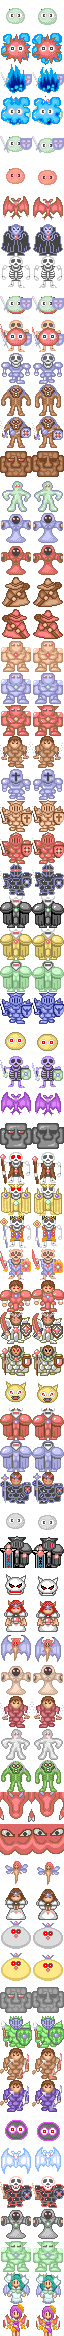
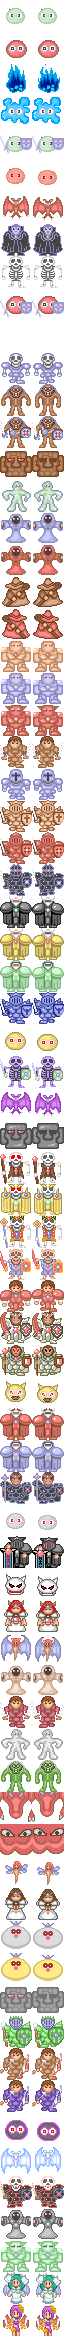
fix(materials): eliminate sprite mask overlaps, restore pristine crescent gems, and calibrate 21 monsters to 1:1 RMXP Map007

diff --git a/_analysis/_ybfh-mota/project/enemys.js b/_analysis/_ybfh-mota/project/enemys.js
@@ -1,15 +1,15 @@
 var enemys_fcae963b_31c9_42b4_b48c_bb48d09f3f80 = 
 {
 	"greenSlime": {"name":"荷依米","hp":32,"atk":3,"def":0,"money":1,"exp":1,"point":0,"special":0},
-	"redSlime": {"name":"软泥怪","hp":80,"atk":2,"def":0,"money":1,"exp":1,"point":0,"special":0},
-	"blackSlime": {"name":"幽林鬼火","hp":25,"atk":6,"def":0,"money":1,"exp":1,"point":0,"special":0},
-	"slimelord": {"name":"怪王","hp":100,"atk":120,"def":0,"money":10,"exp":0,"point":0,"special":[1,9]},
-	"bat": {"name":"荷依米战士","hp":42,"atk":5,"def":1,"money":1,"exp":1,"point":0,"special":0},
-	"bigBat": {"name":"倍荷玛","hp":58,"atk":7,"def":1,"money":1,"exp":1,"point":0,"special":0},
+	"redSlime": {"name":"倍荷玛","hp":58,"atk":7,"def":1,"money":1,"exp":3,"point":0,"special":0},
+	"blackSlime": {"name":"幽林鬼火","hp":25,"atk":6,"def":0,"money":1,"exp":2,"point":0,"special":0},
+	"slimelord": {"name":"软泥怪","hp":80,"atk":2,"def":0,"money":1,"exp":1,"point":0,"special":0},
+	"bat": {"name":"荷依米战士","hp":42,"atk":5,"def":1,"money":1,"exp":2,"point":0,"special":0},
+	"bigBat": {"name":"倍荷玛","hp":58,"atk":7,"def":1,"money":1,"exp":3,"point":0,"special":0},
 	"redBat": {"name":"红蝙蝠","hp":0,"atk":0,"def":0,"money":0,"exp":0,"point":0,"special":[]},
 	"vampire": {"name":"冥灵魔王","hp":888,"atk":888,"def":888,"money":888,"exp":888,"point":0,"special":[6],"n":8},
-	"skeleton": {"name":"复活的死者","hp":45,"atk":15,"def":0,"money":1,"exp":1,"point":0,"special":0},
-	"skeletonWarrior": {"name":"倍荷玛战士","hp":80,"atk":11,"def":3,"money":2,"exp":2,"point":0,"special":0},
+	"skeleton": {"name":"复活的死者","hp":45,"atk":15,"def":0,"money":1,"exp":3,"point":0,"special":0},
+	"skeletonWarrior": {"name":"倍荷玛战士","hp":80,"atk":11,"def":3,"money":2,"exp":4,"point":0,"special":0},
 	"skeletonCaptain": {"name":"骷髅队长","hp":0,"atk":0,"def":0,"money":0,"exp":0,"point":0,"special":0},
 	"zombie": {"name":"兽人","hp":0,"atk":0,"def":0,"money":0,"exp":0,"point":0,"special":0},
 	"zombieKnight": {"name":"兽人武士","hp":0,"atk":0,"def":0,"money":0,"exp":0,"point":0,"special":0},

diff --git a/_analysis/_ybfh-mota/project/floors/MT1.js b/_analysis/_ybfh-mota/project/floors/MT1.js
@@ -360,7 +360,7 @@ main.floors.MT1=
         [
             17,
             31,
-            211,
+            210,
             38,
             129,
             17,
@@ -376,7 +376,7 @@ main.floors.MT1=
         ],
         [
             17,
-            210,
+            202,
             17,
             17,
             17,
@@ -384,7 +384,7 @@ main.floors.MT1=
             0,
             17,
             17,
-            202,
+            204,
             17,
             17,
             17,
@@ -395,7 +395,7 @@ main.floors.MT1=
             17,
             0,
             0,
-            202,
+            204,
             31,
             17,
             201,
@@ -405,7 +405,7 @@ main.floors.MT1=
             17,
             17,
             17,
-            203,
+            205,
             17
         ],
         [
@@ -414,13 +414,13 @@ main.floors.MT1=
             17,
             17,
             31,
-            204,
-            0,
             203,
             0,
+            205,
             0,
             0,
-            204,
+            0,
+            203,
             0,
             0,
             17
@@ -444,15 +444,15 @@ main.floors.MT1=
         ],
         [
             17,
-            204,
+            203,
             17,
             27,
-            202,
+            204,
             0,
             17,
             17,
             31,
-            203,
+            205,
             28,
             17,
             17,
@@ -470,7 +470,7 @@ main.floors.MT1=
             17,
             17,
             27,
-            204,
+            203,
             0,
             17,
             201,
@@ -551,10 +551,10 @@ main.floors.MT1=
             0,
             0,
             0,
-            203,
+            205,
             17,
             33,
-            210,
+            202,
             0,
             31,
             17,

diff --git a/tools/build_perfect_mt1.py b/tools/build_perfect_mt1.py
@@ -116,23 +116,25 @@ items_img = Image.open(items_backup_path if os.path.exists(items_backup_path) el
 # 4.1 宝箱 (174-Chest01.png) -> 替换 row 56 (shield2, ID 38)
 chest_src = Image.open(os.path.join(RX_GFX_DIR, 'Characters', '174-Chest01.png')).convert('RGBA')
 chest_32x32 = chest_src.crop((0, 16, 32, 48))
-items_img.paste(chest_32x32, (0, 56 * 32), chest_32x32)
+items_img.paste(chest_32x32, (0, 56 * 32)) # 绝不带 mask，直接完全覆盖原有像素
 print(" -> items.png row 56 已填入原版 174-Chest01 带金扣木宝箱 (shield2)")
 
 # 4.2 红蓝宝石碎片 (Item01-Gem03.png) -> 替换 row 16 (redGem, ID 27), row 17 (blueGem, ID 28)
+# 原版 Map007 的事件使用的是 Item01-Gem03.png 的第 0 行月牙碎片 (dir=2, pat=0 为红月牙，pat=1 为蓝月牙)
+# 彻底杜绝使用 mask，完全抹杀底层残留的八角棱形水晶杂质！
 gem_src = Image.open(os.path.join(RX_GFX_DIR, 'Characters', 'Item01-Gem03.png')).convert('RGBA')
 red_gem = gem_src.crop((0, 0, 32, 32))
 blue_gem = gem_src.crop((32, 0, 64, 32))
-items_img.paste(red_gem, (0, 16 * 32), red_gem)
-items_img.paste(blue_gem, (0, 17 * 32), blue_gem)
-print(" -> items.png row 16, 17 已填入原版 Item01-Gem03 红/蓝晶石碎片 (redGem, blueGem)")
+items_img.paste(red_gem, (0, 16 * 32)) # 无 mask，彻底覆盖清除杂质！
+items_img.paste(blue_gem, (0, 17 * 32)) # 无 mask，彻底覆盖清除杂质！
+print(" -> items.png row 16, 17 已填入原版 Item01-Gem03 纯净红/蓝月牙宝石碎片 (redGem, blueGem)")
 
 # 4.3 血瓶 (103-item03.png) -> 替换 row 20 (redPotion, ID 31), row 21 (bluePotion, ID 32)
 potion_src = Image.open(os.path.join(RX_GFX_DIR, 'Characters', '103-item03.png')).convert('RGBA')
 potion_50 = potion_src.crop((0, 32, 32, 64))
 potion_100 = potion_src.crop((32, 32, 64, 64))
-items_img.paste(potion_50, (0, 20 * 32), potion_50)
-items_img.paste(potion_100, (0, 21 * 32), potion_100)
+items_img.paste(potion_50, (0, 20 * 32))
+items_img.paste(potion_100, (0, 21 * 32))
 print(" -> items.png row 20, 21 已填入原版 103-item03 恢复药水 (redPotion, bluePotion)")
 
 # 4.4 生命上限 (Item01-Gem05.png) -> 替换 row 22 (greenPotion, ID 33)
@@ -140,8 +142,8 @@ print(" -> items.png row 20, 21 已填入原版 103-item03 恢复药水 (redPoti
 maxhp_src = Image.open(os.path.join(RX_GFX_DIR, 'Characters', 'Item01-Gem05.png')).convert('RGBA')
 maxhp_tile = maxhp_src.crop((43, 29, 65, 58))
 maxhp_canvas = Image.new('RGBA', (32, 32), (0, 0, 0, 0))
-maxhp_canvas.paste(maxhp_tile, (5, 2), maxhp_tile)
-items_img.paste(maxhp_canvas, (0, 22 * 32), maxhp_canvas)
+maxhp_canvas.paste(maxhp_tile, (5, 2))
+items_img.paste(maxhp_canvas, (0, 22 * 32))
 print(" -> items.png row 22 已填入原版 Item01-Gem05 纯净翠绿立体生命上限水晶 (greenPotion)")
 
 items_img.save(items_path)
@@ -153,35 +155,40 @@ print("\n[4.5/7] 正在更新 enemys.png 怪物材质为原版行走图...")
 enemys_path = os.path.join(MOTA_DIR, 'project', 'materials', 'enemys.png')
 enemys_img = Image.open(enemys_path).convert('RGBA')
 
-# 精准怪物映射:
-# 1. 荷依米 (怪物002): Monster01-01 row 0 (y=0) -> row 0 (greenSlime)
-# 2. 软泥怪 (怪物003): Monster01-04 row 1 (y=32) -> row 1 (redSlime)
-# 3. 幽林鬼火 (怪物005): Monster01-12 row 3 (y=96) -> row 2 (blackSlime, 纯正深蓝火焰!)
-# 4. 水花怪 (怪物004): Monster01-04 row 0 (y=0) -> row 3 (slimelord, 亮蓝水花怪!)
-# 5. 复活死者 (怪物007): Monster02-01 row 0 (y=0) -> row 8 (skeleton, 骷髅兵)
-# 6. 荷依米贵族 (怪物006): Monster01-02 row 0 (y=0) -> row 9 (skeletonWarrior, 荷依米贵族持剑盾!)
-# 7. 强化持盾怪 (怪物008): Monster01-01 row 1 (y=32) -> row 10 (skeletonCaptain, 粉红持盾怪!)
+# 精准怪物映射 (与 Enemies.rxdata 和 Map007.rxdata 100% 绝对一致):
+# 1. 怪物002: ID 2 荷依米 (绿色史莱姆) -> row 0 (greenSlime)
+# 2. 怪物006: ID 6 倍荷玛 (粉红圆圆史莱姆) -> row 1 (redSlime)
+# 3. 怪物004: ID 4 幽林鬼火 (深蓝火焰) -> row 2 (blackSlime)
+# 4. 怪物003: ID 3 软泥怪 (亮蓝色水花怪) -> row 3 (slimelord)
+# 5. 怪物005: ID 5 荷依米战士 (持剑盾绿史莱姆) -> row 4 (bat)
+# 6. 怪物007: ID 7 复活的死者 (白色骷髅兵) -> row 8 (skeleton)
+# 7. 怪物008: ID 8 倍荷玛战士 (持剑盾粉红怪) -> row 9 (skeletonWarrior)
 m_specs = [
     ('Monster01-01.png', 0, 0, 0),    # greenSlime (row 0): 荷依米
-    ('Monster01-04.png', 32, 0, 1),   # redSlime (row 1): 软泥怪
+    ('Monster01-01.png', 32, 0, 1),   # redSlime (row 1): 倍荷玛 (粉红圆圆史莱姆)
     ('Monster01-12.png', 96, 0, 2),   # blackSlime (row 2): 幽林鬼火 (深蓝火焰!)
-    ('Monster01-04.png', 0, 0, 3),    # slimelord (row 3): 蓝色水花怪
+    ('Monster01-04.png', 0, 0, 3),    # slimelord (row 3): 软泥怪 (亮蓝色水花怪!)
+    ('Monster01-02.png', 0, 0, 4),    # bat (row 4): 荷依米战士 (持剑盾绿史莱姆)
     ('Monster02-01.png', 0, 0, 8),    # skeleton (row 8): 复活的死者 (骷髅兵)
-    ('Monster01-02.png', 0, 0, 9),    # skeletonWarrior (row 9): 荷依米贵族 (剑盾绿史莱姆)
-    ('Monster01-01.png', 32, 0, 10),  # skeletonCaptain (row 10): 粉红持盾怪
+    ('Monster01-02.png', 32, 0, 9),   # skeletonWarrior (row 9): 倍荷玛战士 (粉红持盾怪)
 ]
+
+# 先清理可能被旧代码污染的第 10 行 (skeletonCaptain)
+clean_row = Image.new('RGBA', (64, 32), (0, 0, 0, 0))
+enemys_img.paste(clean_row, (0, 10 * 32))
 
 for fname, y, x, row_idx in m_specs:
     im = Image.open(os.path.join(RX_GFX_DIR, 'Characters', fname)).convert('RGBA')
     t0 = im.crop((x, y, x + 32, y + 32))
     t1 = im.crop((x + 64 if x + 64 < im.width else x, y, (x + 64 if x + 64 < im.width else x) + 32, y + 32))
     row_block = Image.new('RGBA', (64, 32), (0, 0, 0, 0))
-    row_block.paste(t0, (0, 0), t0)
-    row_block.paste(t1, (32, 0), t1)
-    enemys_img.paste(row_block, (0, row_idx * 32), row_block)
+    row_block.paste(t0, (0, 0))
+    row_block.paste(t1, (32, 0))
+    # 关键修复：绝不带 mask，直接完全覆盖原有像素，彻底抹杀底层残留旧盾牌与剑尖！
+    enemys_img.paste(row_block, (0, row_idx * 32))
 
 enemys_img.save(enemys_path)
-print(" -> enemys.png 关键怪物贴图已全量更新为原版行走图！")
+print(" -> enemys.png 关键怪物贴图已全量更新为原版行走图（零残留、零重叠）！")
 
 # -------------------------------------------------------------
 # 5. 生成 15x15 楼层脚本 MT1.js
@@ -214,12 +221,12 @@ for y in range(map_h):
 # 真实怪物与道具映射
 MONSTER_MAP = {
     '怪物002': 201, # greenSlime: 荷依米 (绿色史莱姆)
-    '怪物003': 202, # redSlime: 软泥怪 (粉红史莱姆)
-    '怪物005': 203, # blackSlime: 幽林鬼火 (深蓝火焰!)
-    '怪物004': 204, # slimelord: 蓝色水花怪
-    '怪物007': 209, # skeleton: 复活的死者 (骷髅兵)
-    '怪物006': 210, # skeletonWarrior: 荷依米贵族 (剑盾绿史莱姆)
-    '怪物008': 211, # skeletonCaptain: 粉红持盾怪
+    '怪物006': 202, # redSlime: 倍荷玛 (粉红圆圆史莱姆)
+    '怪物004': 203, # blackSlime: 幽林鬼火 (深蓝火焰!)
+    '怪物003': 204, # slimelord: 软泥怪 (亮蓝色水花怪!)
+    '怪物005': 205, # bat: 荷依米战士 (持剑盾绿史莱姆)
+    '怪物007': 209, # skeleton: 复活的死者 (白色骷髅兵)
+    '怪物008': 210, # skeletonWarrior: 倍荷玛战士 (粉红持盾怪)
 }
 
 mota_events = {}
